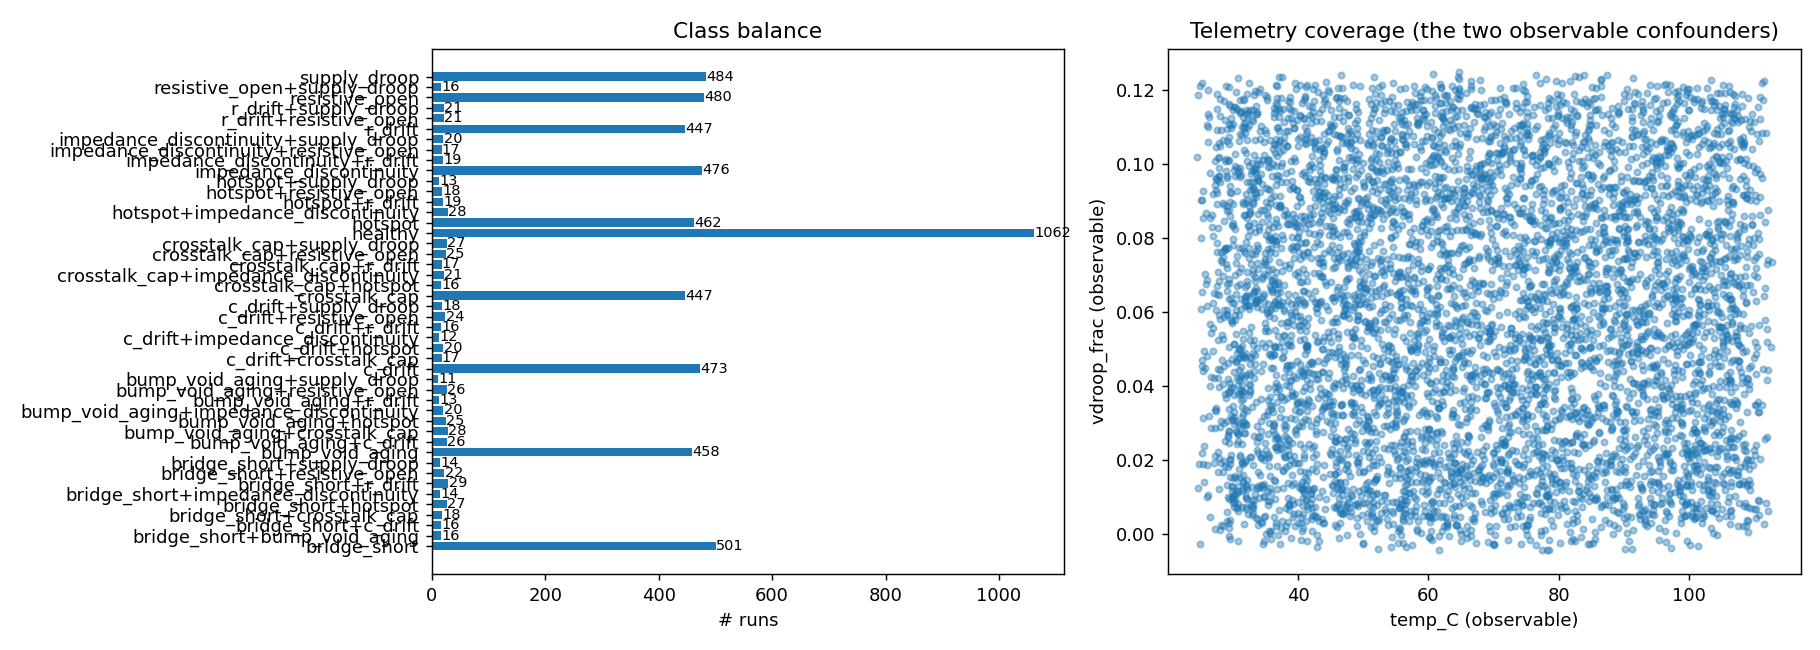
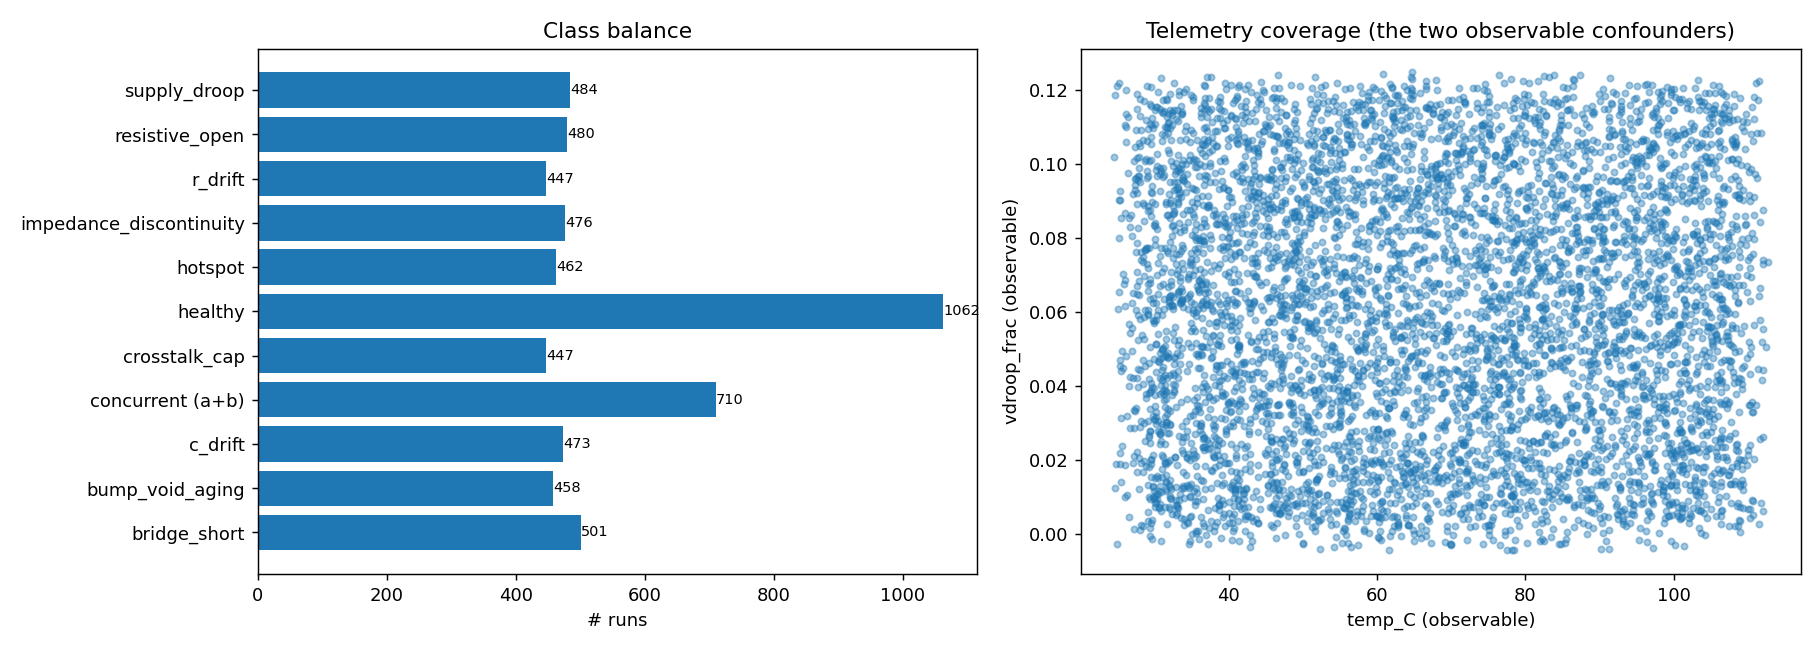
Fix overview figure: group 36 concurrent-fault labels into one bar
The class-balance panel listed all 46 labels (10 base + 36 "a+b"
combinations), overlapping the y-axis text; concurrent rows now
aggregate into a single "concurrent (a+b)" bar.

diff --git a/sim/inspect_waves.py b/sim/inspect_waves.py
@@ -180,8 +180,13 @@ def plot_waveforms(meta, by_class, path):
 
 
 def plot_overview(by_class, rows, path):
-    classes = sorted(by_class)
-    counts = [len(by_class[c]) for c in classes]
+    # group the many "a+b" concurrent-fault labels into one bar so the
+    # y-axis stays readable (v2 has 36 distinct two-fault combinations)
+    grouped = defaultdict(int)
+    for c, recs in by_class.items():
+        grouped["concurrent (a+b)" if "+" in c else c] += len(recs)
+    classes = sorted(grouped)
+    counts = [grouped[c] for c in classes]
     fig, (a1, a2) = plt.subplots(1, 2, figsize=(14, 5))
     a1.barh(classes, counts, color="#1f77b4")
     a1.set_xlabel("# runs"); a1.set_title("Class balance")